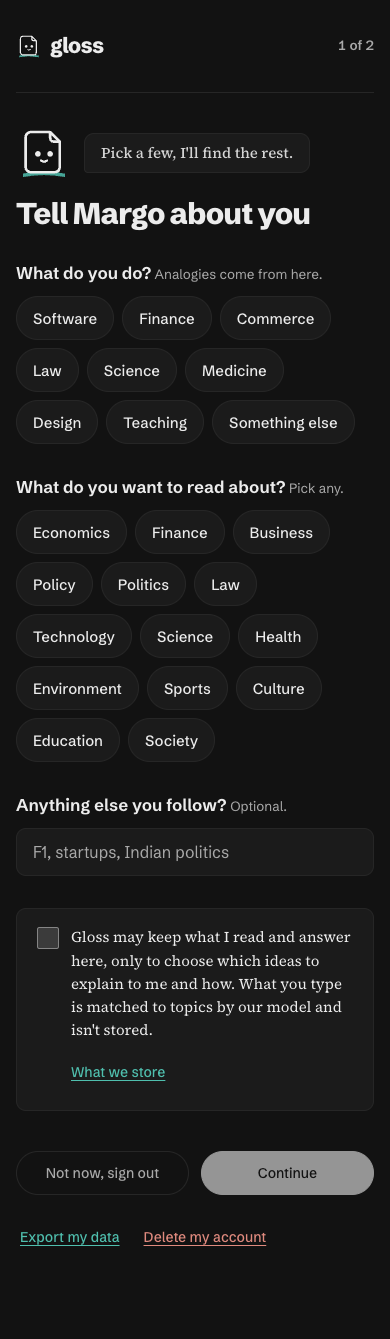
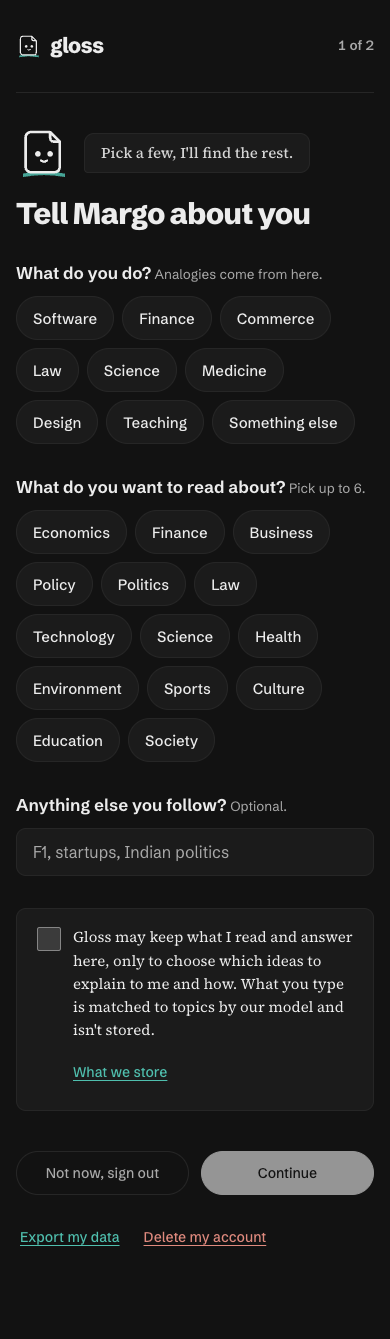
Landing and onboarding: reviewer fixes (each free-text piece alone to the model; landing.py asserts zero network, axe at every level and the keyboard path; answered buttons keep focus; evals.json test; STATUS §19 landing rows, one LCP figure, decision rows; after screenshots)

Changed region(s): [[0.1846, 0.6736, 0.8923, 0.8267]]

diff --git a/apps/web/src/pages/welcome/DiscoverScreen.tsx b/apps/web/src/pages/welcome/DiscoverScreen.tsx
@@ -175,6 +175,8 @@ interface CardProps {
   onKnow: (conceptId: string, known: boolean) => void;
 }
 
+/** Answered buttons stay focusable (aria-disabled, not disabled): a keyboard reader keeps
+ * their place in the list instead of being thrown back to the top of the page. */
 function Card({ item, answers, onPick, onKnow }: CardProps) {
   const liked = answers.picks[item.id];
   const href = item.kind === "library" && item.content_id ? `/read/${item.content_id}` : item.url;
@@ -193,10 +195,10 @@ function Card({ item, answers, onPick, onKnow }: CardProps) {
       </h2>
       {item.snippet && <p className="discover-card__snippet">{item.snippet}</p>}
       <div className="discover-card__answers" role="group" aria-label={`Would you read “${item.title}”?`}>
-        <button type="button" className="answer" aria-pressed={liked === true} onClick={() => onPick(item, true)} disabled={liked !== undefined}>
+        <button type="button" className="answer" aria-pressed={liked === true} aria-disabled={liked !== undefined} onClick={() => liked === undefined && onPick(item, true)}>
           I'd read this
         </button>
-        <button type="button" className="answer" aria-pressed={liked === false} onClick={() => onPick(item, false)} disabled={liked !== undefined}>
+        <button type="button" className="answer" aria-pressed={liked === false} aria-disabled={liked !== undefined} onClick={() => liked === undefined && onPick(item, false)}>
           Not for me
         </button>
       </div>
@@ -205,10 +207,10 @@ function Card({ item, answers, onPick, onKnow }: CardProps) {
           <span className="discover-card__ask">
             Know <mark className="discover-card__term">{term.label}</mark>?
           </span>
-          <button type="button" className="answer answer--small" aria-pressed={known === true} onClick={() => onKnow(term.concept_id, true)} disabled={known !== undefined}>
+          <button type="button" className="answer answer--small" aria-pressed={known === true} aria-disabled={known !== undefined} onClick={() => known === undefined && onKnow(term.concept_id, true)}>
             Yes
           </button>
-          <button type="button" className="answer answer--small" aria-pressed={known === false} onClick={() => onKnow(term.concept_id, false)} disabled={known !== undefined}>
+          <button type="button" className="answer answer--small" aria-pressed={known === false} aria-disabled={known !== undefined} onClick={() => known === undefined && onKnow(term.concept_id, false)}>
             Not really
           </button>
         </div>

diff --git a/apps/web/test/evalNumbers.test.ts b/apps/web/test/evalNumbers.test.ts
@@ -1,0 +1,29 @@
+import { readFileSync } from "node:fs";
+import { describe, expect, it } from "vitest";
+
+// @ts-expect-error: a plain ESM build script, no type declarations
+import { evalNumbers, paths, renderEvalJson } from "../scripts/eval-numbers.mjs";
+
+// Plan A5: the landing's verifier numbers come from the eval report, never typed by hand.
+// CI doesn't run the web build (which regenerates evals.json), so this test is the guard.
+
+describe("eval numbers", () => {
+  it("the committed evals.json matches the eval report", () => {
+    const report = readFileSync(paths.report, "utf8");
+    expect(readFileSync(paths.out, "utf8")).toBe(renderEvalJson(report));
+  });
+
+  it("reads counts exactly and refuses a table it can't trust", () => {
+    const table = (rows: string) =>
+      `## Judge comparison\n| Judge | Adversarial rejected | Good accepted | Injection safe |\n|---|---|---|---|\n${rows}`;
+    expect(evalNumbers(table("| `m` | 15/15 (100%) | 24/25 (96%) | 10/10 |"))).toEqual({
+      judge: "m",
+      adversarial: { passed: 15, total: 15 },
+      good: { passed: 24, total: 25 },
+      injection: { passed: 10, total: 10 },
+    });
+    expect(() => evalNumbers(table("| a | 1/1 | 1/1 | 1/1 |\n| b | 1/1 | 1/1 | 1/1 |"))).toThrow(/exactly one/);
+    expect(() => evalNumbers(table("| a | all | 1/1 | 1/1 |"))).toThrow(/not "n\/m"/);
+    expect(() => evalNumbers("## Other\n")).toThrow(/Judge comparison/);
+  });
+});

diff --git a/apps/web/src/styles/welcome.css b/apps/web/src/styles/welcome.css
@@ -270,11 +270,11 @@
   cursor: pointer;
   transition: border-color var(--dur-fast) var(--ease), background-color var(--dur-fast) var(--ease), color var(--dur-fast) var(--ease);
 }
-.answer:hover:not(:disabled) { border-color: var(--accent); color: var(--accent); }
+.answer:hover:not([aria-disabled="true"]) { border-color: var(--accent); color: var(--accent); }
 .answer:focus-visible { outline: 2px solid var(--accent); outline-offset: 2px; }
 .answer[aria-pressed="true"] { border-color: var(--accent); background: var(--accent); color: var(--on-accent, #fff); }
-.answer:disabled { cursor: default; }
-.answer:disabled:not([aria-pressed="true"]) { color: var(--muted); background: transparent; }
+.answer[aria-disabled="true"] { cursor: default; }
+.answer[aria-disabled="true"]:not([aria-pressed="true"]) { color: var(--muted); background: transparent; }
 .answer--small { padding: 0 var(--s3); }
 .discover-card--ghost {
   min-height: 220px;

diff --git a/tools/shots/landing.py b/tools/shots/landing.py
@@ -51,12 +51,63 @@ async def demo_checks(p):
     return out
 
 
+KEYS = {"Tab": 9, "Enter": 13, "Escape": 27, "ArrowRight": 39, " ": 32}
+
+
+async def press(p, key, shift=False):
+    code = "Space" if key == " " else key
+    # Enter and Space carry text, as a real keyboard's keydown does (Enter clicks a button).
+    text = {"Enter": "\r", " ": " "}.get(key)
+    for kind in ("keyDown" if text else "rawKeyDown", "keyUp"):
+        extra = {"text": text} if text and kind == "keyDown" else {}
+        await p.send("Input.dispatchKeyEvent", type=kind, key=key, code=code, modifiers=8 if shift else 0,
+                     windowsVirtualKeyCode=KEYS[key], nativeVirtualKeyCode=KEYS[key], **extra)
+    await asyncio.sleep(0.15)
+
+
+async def tab_to(p, selector, limit=60):
+    for _ in range(limit):
+        await press(p, "Tab")
+        if await p.eval(f"!!document.activeElement?.matches({json.dumps(selector)})"):
+            return True
+    return False
+
+
+async def keyboard_checks(p):
+    """Acceptance 6: the demo toggle, a highlight and its card by keyboard alone."""
+    await p.viewport(1440)
+    await p.goto(BASE + "/", wait=2)
+    checked = "document.querySelector('.lp-demo [role=radio][aria-checked=true]')?.textContent.trim()"
+    out = {"toggle_focus": await tab_to(p, ".lp-demo [role=radio]")}
+    before = await p.eval(checked)
+    await press(p, "ArrowRight")
+    out["arrow_changes_persona"] = f"{before} → {await p.eval(checked)}"
+    out["mark_focus"] = await tab_to(p, ".lp-demo .rl-mark")
+    mark = await p.eval("document.activeElement.textContent.trim()")
+    await press(p, "Enter")
+    await asyncio.sleep(0.8)
+    # The demo always shows one open note (decision 46); Enter swaps it to the focused mark's.
+    title = await p.eval("document.querySelector('.lp-demo__note-live .rl-card__title')?.textContent ?? ''")
+    out["enter_shows_its_note"] = f"{mark} → {title}"
+    out["mark_expanded"] = await p.eval("document.activeElement?.getAttribute('aria-expanded') === 'true'"
+                                        " && !!document.getElementById(document.activeElement.getAttribute('aria-controls'))")
+    await press(p, "Escape")
+    await asyncio.sleep(0.5)
+    out["focus_stays_on_mark"] = await p.eval("!!document.activeElement?.matches('.lp-demo .rl-mark')")
+    out["pass"] = (out["toggle_focus"] and before != out["arrow_changes_persona"].split(" → ")[1]
+                   and out["mark_focus"] and out["mark_expanded"]
+                   and out["focus_stays_on_mark"])
+    return out
+
+
 async def main():
     cdp.launch()
     p, ws = await cdp.open_page()
     try:
         await cdp.Page.reset_auth(p, BASE)
         report = {"demo": await demo_checks(p)}
+        net = report["demo"]["network_after_load"]
+        assert net["fetch"] == 0 and net["xhr"] == 0 and not net["resources"], f"network after load: {net}"
 
         for w, dark in SIZES:
             await p.viewport(w, dark=dark)
@@ -117,16 +168,24 @@ async def main():
         }
         await p.eval(THEME.format("light"))
         report["d46"] = await landing_d46.run_all(p, BASE)
+        # Last: it switches the persona and closes the open note, which the checks above assume.
+        await cdp.Page.reset_auth(p, BASE)
+        report["keyboard"] = await keyboard_checks(p)
         print(json.dumps(report, indent=2))
         failed = [k for k, v in report["d46"].items() if not v["pass"] and k not in landing_d46.KNOWN]
         known = {k: v for k, v in report["d46"].items() if not v["pass"] and k in landing_d46.KNOWN}
         print("decision 46 known shortfalls (reported to Sourabh):", json.dumps(known))
         print("decision 46 checks:", "all pass" if not failed else f"FAIL {failed}")
-        if failed:
+        axe = {k: v[key] for k, v in report.items() if isinstance(v, dict)
+               for key in ("axe", "axe_card") if v.get(key)}
+        print("axe (every impact level):", "0 everywhere" if not axe else f"FAIL {axe}")
+        print("keyboard:", json.dumps(report["keyboard"]))
+        if failed or axe or not report["keyboard"]["pass"]:
             raise SystemExit(1)
     finally:
         await ws.close()
         cdp.stop()
 
 
-asyncio.run(main())
+if __name__ == "__main__":
+    asyncio.run(main())

diff --git a/tools/shots/onboarding.py b/tools/shots/onboarding.py
@@ -11,6 +11,7 @@ import time
 
 sys.path.insert(0, __file__.rsplit("/", 1)[0])
 import cdp  # noqa: E402
+from landing import press, tab_to  # noqa: E402
 
 W = "http://localhost:5173"
 SIZES = ((1440, False), (1440, True), (390, False), (390, True))
@@ -82,6 +83,24 @@ async def main():
         topics = await p.eval("[...document.querySelectorAll('.discover-card__topic')].map(e => e.textContent)")
         print(f"[screen2] cards={cards} after {t_cards:.1f}s topics={topics}")
         await check(p, "screen2", ".discover-card:not(.discover-card--ghost)")
+
+        # --- keyboard (acceptance 6): Tab to the first card's buttons, answer with Space and Enter
+        await p.viewport(1440)
+        await theme(p, False)
+        await p.goto(W + "/welcome", wait=1)
+        await p.wait_for(".discover-card:not(.discover-card--ghost)", 40)
+        await asyncio.sleep(1)
+        kb = {"pick_focus": await tab_to(p, ".discover-card__answers .answer")}
+        await press(p, " ")
+        await asyncio.sleep(0.5)
+        kb["space_picks"] = await p.eval("document.querySelector('.discover-card__answers .answer').getAttribute('aria-pressed')")
+        kb["focus_kept_after_answer"] = await p.eval("document.activeElement?.matches('.discover-card__answers .answer')")
+        kb["know_focus"] = await tab_to(p, ".discover-card__know .answer")
+        await press(p, "Enter")
+        await asyncio.sleep(0.5)
+        kb["enter_answers"] = await p.eval("document.querySelector('.discover-card__know .answer[aria-pressed=true]') !== null")
+        kb["start_focus"] = await tab_to(p, ".welcome__actions .btn--primary", 120)
+        print("[keyboard screen2]", kb)
 
         # --- answers: two Not for me on Sports, I'd read on the rest, two Know this?
         await p.viewport(1440)

diff --git a/docs/STATUS.md b/docs/STATUS.md
@@ -202,7 +202,7 @@ and `select_corpus()` now also drops `user_ingested` docs even if a URL is liste
 
 | Severity | Issue |
 |---|---|
-| Medium | **Landing: mobile Lighthouse LCP 5.7 s simulated (gate 2.5 s), accepted by Sourabh 2026-10-11 for now.** Desktop: perf 100, LCP 0.5 s. Cause: when the landing chunk takes over from the hydrated static hero, React re-mounts the hero (HeroStatic → Suspense → LandingPage), and the new demo paragraph, slightly larger once the annotator's highlights are drawn, becomes the LCP element at ≈ 600 ms observed (first paint of the same text: ≈ 40 ms). **M9 / tweak window: landing mount restructure: the demo attaches to the static hero instead of rebuilding it** |
+| Medium | **Landing: mobile Lighthouse LCP over the 2.5 s gate, accepted by Sourabh 2026-10-11 for now.** One figure from now on: **2.6 s** (3 runs on 2026-10-11 against the final local build, perf 95). Earlier runs during the font work read 5.7 s and 5.9 s; the gap isn't explained (same hero code; different run conditions likely) and the live run after deploy is the number to trust. Desktop: perf 100, LCP 0.5 s. Cause: when the landing chunk takes over from the hydrated static hero, React re-mounts the hero (HeroStatic → Suspense → LandingPage), and the new demo paragraph, slightly larger once the annotator's highlights are drawn, becomes the LCP element at ≈ 600 ms observed (first paint of the same text: ≈ 40 ms). **M9 / tweak window: landing mount restructure: the demo attaches to the static hero instead of rebuilding it** |
 | Medium | Cold start **6.0 s** after lazy imports (was 21.9 s, §11). Min instances 1 during judging removes it; the first new article on a fresh instance pays the deferred imports |
 | Medium | **M9: Firebase App Check (reCAPTCHA Enterprise)** to stop scripted anonymous sign-ups. Shared anonymous caps bound the cost today (30 new URLs/day, 100 search calls/day), but a script can still mint accounts and burn those shared allowances for everyone |
 | Medium | **M9: scheduled cleanup of anonymous users with no activity for 30 days** (Auth user + `users/{uid}`). "End demo" deletes on request; abandoned demo sessions pile up until then |
@@ -499,7 +499,12 @@ record the video; build the deck; Cloud Run min instances 1 for Oct 19 – Nov 6
 | 44 | Landing visuals and light default (Sourabh, 2026-10-11) | Keep the landing's structure, copy, headline, Read-as demo and the side-by-side; add visuals: a large Margo character in the hero (pointing at the note, mood follows the persona toggle) and the final CTA; a laptop + phone product shot of the real reader (AVIF/WebP 1x/2x, source credited); three problem illustrations from Google's image model on Vertex (flat ink + teal, Margo as character reference, credited in the footer; model, prompts, cost in DESIGN/STATUS); How it works as a 2×2 grid of 3–5 s silent looping clips from the real app (WebM + MP4 ≤ 400 KB, poster only under reduced motion); a full-width teal trust band with the eval results as large figures; alternating paper/wash bands. Budgets unchanged (LCP < 2.5 s mobile, first view < ~1.5 MB, below-fold lazy, axe 0). **Light is the default theme**: dark only via the toggle, not the OS. GitHub links stay; the repo goes public at submission after a gitleaks scan (M9). Plan amendment in `docs/plans/landing-onboarding.md` |
 | 45 | Wider layouts (Sourabh, 2026-10-11) | Pages feel cramped with large side margins on wide screens. Landing (this milestone): section containers up to ~1280px, hero a 50/50 split (copy · big Margo + demo), illustrations, clips and the teal trust band may be full-bleed, fluid spacing with clamp(). Feed/library (container ~1280px, wider rows, filled sidebar, a third column at ≥ 1440px with a "Your map this week" mini-map and goals), profile (more domain-card columns, knowledge map full container width and taller) and reader (text column stays ~680px; note margin on the right as now; at ≥ 1280px a slim left rail with contents, reading progress and notes count): a separate **Wide layout** follow-up after Landing and onboarding ships and before M8 (not small enough for the same PR: new third column, reader left rail, profile restructure), own plan and reviewer loop. Screenshots at 1280, 1440, 1920 and 390 |
 | 46 | Landing polish (Sourabh, 2026-10-11) | The opening is weak and the page loose. Hero: the demo opens with one note already expanded (bps for the software engineer; "Read as" swaps the open note and its analogy), no empty area below it; Margo attached to the open note's top edge, handing it over, moods as before; nav adds How it works, Privacy, Sign in and a small Try the demo button; the hero sits higher and fits a 1440×900 first view with the open note; the laptop shot goes, a smaller phone overlaps the hero card's bottom-right on desktop (hidden on mobile); "Read as:" and no tracked all-caps labels. Sections: padding about halved (clamp ~56–96px), no empty halves; problem heading + one-line intro on a row, the italic line as a pull quote under the cards; How it works clips re-cropped tight and readable (measured: card text ≥ 14 px at 1440, ≥ 12 px in the single phone column), first poster showing the card; "What you can read" centred; final CTA gains the knowledge-map clip beside Margo. First view at 1440×900 and 390×844 shows headline, CTAs and an open note; before/after screenshots in the log. Plan amendment P1–P6 in `docs/plans/landing-onboarding.md` |
+| 46b | Hero follow-up (Sourabh, 2026-10-11) | Left column: his three value lines with Margo faces and a proof line from evals.json linking to How we test; the open note shows "What the author is saying" in full at natural height (no inner scroll) for every persona; source line in the caption; 19px demo paragraph. Plan amendment Q1–Q4 |
+| 46c | Last hero changes before the freeze (Sourabh, 2026-10-11) | Phone out of the hero; source line in the card header; "Read with Gloss:" persona chips; copy column and card aligned within ±40px with the whole hero in view at 1440×900 and 1280×800. Plan amendment R1, R3 |
 | 46d | Know-this answers change the marks in place (Sourabh, 2026-10-11) | After a "Know this?" answer is saved (PATCH /v1/me/graph succeeds) the reader waits 1.2 s (so "Noted, thanks." shows), then refetches the article's annotations with `refresh=1` and re-renders: "Not really" inks the term in as a note, "Yes" leaves no mark; no page reload. `GET /v1/content/{id}/annotations?refresh=1` returns no prompt and records no page view (weekly trend, today's prompt log); it costs one extra annotations request per answer (at most three a day) against the annotations rate limit. The refetch is skipped if the reader moved to another article or persona within the wait. The recap's "before" bands are taken once per view (article, persona, density), so a refresh never resets them and a "Yes" keeps its band move and Undo. Shipped as its own PR ahead of the Landing milestone so a landing clip can be recorded live. The paused `m8` branch also changes `apps/api/app/content/router.py` and `tests/test_scorer.py`: expect conflicts in its rebase |
+| 46e | Device frames with full-UI captures (Sourabh, 2026-10-11) | A "See it in action" section after the hero (monitor with the feed, laptop with the reader; a phone on mobile); How it works and the final CTA as framed full-window loops (2880×1800, ≤ 600 KB) with a gentle zoom toward the action (≤ 1.15×, pause stops it), posters ≤ 120 KB, "Tap to play" when autoplay is blocked; section padding ~72–128px. Replaces 46d's clip crops. Plan amendment S1–S5 |
+| 47 | Self-hosted trimmed fonts (Sourabh, 2026-10-11) | Fontsource variable Schibsted Grotesk and Source Serif 4, Latin only, trimmed to the weights used (fontTools), a one-glyph ₹ file per face, hero headline and body preloaded, `font-display: swap`, metric-matched fallbacks, Google Fonts links dropped, `/fonts/**` cached immutable. Mobile LCP still missed the 2.5 s gate (not the fonts: the landing chunk re-mounts the hero); Sourabh accepted the miss, the mount restructure is on the M9 list; landing frozen. Plan amendment F1–F3 |
+| 42b | Onboarding topic matching, more deterministic (Sourabh, 2026-10-11, before the PR) | The topic alias list extended to ~60 common phrases over all 14 topics (109 entries with variants), then word-level matching: words and 2-word chunks (no stop, generic or country words) against the aliases and concept labels, strongest match's topic, before any model call; embedding only when nothing matches. Same 22-phrase set, gate zero wrong and the 5 nonsense phrases unrecognised: 18/22 (§4 has the caveat) |
 
 No decisions are open.
 
@@ -827,6 +832,10 @@ screenshots in `docs/evidence/onboarding/after/`.
 
 | # | Check | Result |
 |---|---|---|
+| 1 | Before/after screenshots | Landing: before in `docs/evidence/landing/before/` (the sign-in page) and `d46-before/`; after in `docs/evidence/landing/after/` (1440 and 390, light and dark, folds, the open card; /privacy at 1440 and 390 both themes; JPEG). Onboarding after in `docs/evidence/onboarding/after/` (screens 1 and 2, matches, readback, feed). **Deviation:** no "before" shots of the old 7-step welcome were taken before it was rewritten |
+| 2 | Landing demo, no network | Pass (`tools/shots/landing.py`, local production build): Cricket fan bps refresher + "tighter policy" new; Policy student bps new (law analogy); Software engineer both new (software analogy); after load 0 fetch, 0 XHR, 0 resource requests while toggling and opening notes (now asserted, the script fails otherwise) |
+| 3 | No landing flash when signed in | Pass by the first-paint switch, not screenshots (**deviation**: the switch is the thing that prevents the flash, so it is checked directly): `data-boot` = landing for "/" with no hint; shell for "/" with the signed-in hint, /privacy and /read/abc. A signed-out deep link shows "Sign in or try the demo to open that page." and keeps `/read/abc` to return to |
+| 6 | Lighthouse, axe, keyboard, bundle | axe 0 at **every impact level** on "/" (page and open card) and /privacy at 1920, 1440, 1280 and 390, light and dark, and on onboarding screens 1 and 2 at 1440 and 390 both themes; no horizontal scroll anywhere. Keyboard (asserted): Tab to the demo toggle, ArrowRight switches persona (Software engineer → Cricket fan), Tab to a highlight, Enter opens its note ("bps" → Basis points, `aria-expanded`), Escape leaves focus on the highlight; screen 2: Tab to a card's buttons, Space picks, focus stays on the card after answering (answered buttons are `aria-disabled`, not disabled, found on this run), Enter answers Know this?, Tab reaches Start reading. Bundle: landing chunk 7.67 KB gzip; JS on "/" = main 147.42 + landing 7.67 KB gzip; first view at 390×844 285,800 bytes, no landing media before scroll. Lighthouse 12.8.2 mobile, local production build, 3 runs: perf 95, a11y 100, CLS 0, **LCP 2.6 s every run** (gate 2.5 s: a 0.1 s miss, accepted with the M9 item in §5) |
 | 4 | New Google (emulator) reader, 2 screens to the feed | Pass: scripted run 30 s from screen 1 to For you (script waits included; screen 2's 9 cards after 3.7–6.8 s). Two "Not for me" on Sports (then one "I'd read this") → Sports 0.85, feed topics economics, business, sports (behind). Know this? answers moved θ in economics only (−0.135) and wrote the two edges; the profile page's band display for them is checked at the live run (not looked at on the harness) |
 | 5 | Free text "F1, startups, mergers and acquisitions" | Pass: F1 → Sports and startups → Business by alias, M&A exact (0 model calls, $0); searches in the harness log: 9 topic keys + `feed:c:c_m_a` only; the text appears nowhere in the API log; pytest proves the same for search requests, every log record at DEBUG and every stored document (mutation-checked) |
 | 6 | axe, sizes, scroll | Pass: axe 0 (every impact level) on screens 1 and 2 at 1440/390, light and dark; no horizontal scroll; targets ≥ 44px after fixes (consent checkbox 24px inside a full-sentence label) |

diff --git a/docs/AUTOPILOT_LOG.md b/docs/AUTOPILOT_LOG.md
@@ -734,6 +734,20 @@ changed, live URLs and numbers. Newest entries at the bottom of each milestone.
   "cricket highlights"); moved before it, so model calls happen only when nothing matches.
   API tests 667.
 
+- **milestone-reviewer: FIX** (5 items + follow-ups). Done: (1) privacy: several free-text
+  pieces could share one `link_confirm` prompt (resolve_names batches names): now one
+  resolve_names call and one embed request per piece; a test with two candidate pieces fails on
+  the old code; DESIGN §11.4 says so. (2) STATUS §19 landing rows from my own run of
+  `tools/shots/landing.py` (now asserts 0 network after load, axe 0 at every level, and a
+  keyboard path); one mobile LCP figure: Lighthouse 12.8.2 × 3 on the final local build =
+  2.6 s, perf 95 (the earlier 5.7/5.9 s unexplained; live run decides). (3) after shots committed
+  (`docs/evidence/landing/after/`, JPEG subset; onboarding `after/`); deviations recorded: no
+  "before" of the old welcome steps, no-flash checked by the boot switch. Keyboard run found a real
+  issue: answered buttons were `disabled`, so focus fell to the page top; now `aria-disabled`,
+  focus stays (harness: axe 0, keyboard all true). (4) `test/evalNumbers.test.ts` (evals.json
+  equals the report; malformed tables throw). (5) STATUS §10 rows 46b, 46c, 46e, 47, 42b.
+  Follow-ups done: finish needs screen 1 saved (409), topic chips capped at 6. API 669, web 52.
+
 ### Next steps (resume here, in order)
 1. milestone-reviewer on the whole `landing` branch (landing + onboarding) until SHIP.
 2. PR from `landing` ("Landing and onboarding: …"), green CI, squash-merge.
